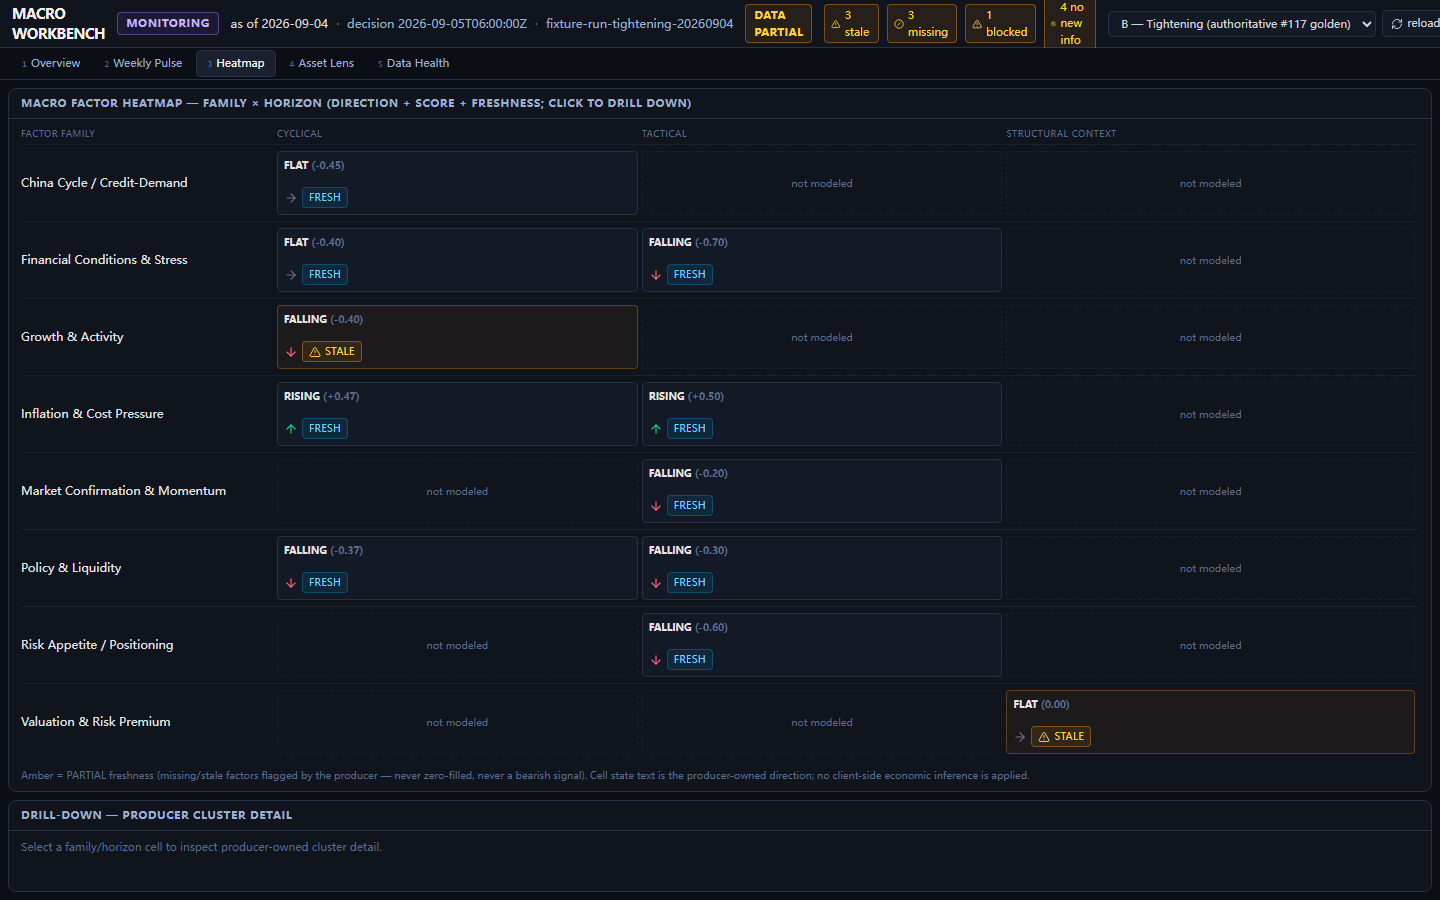
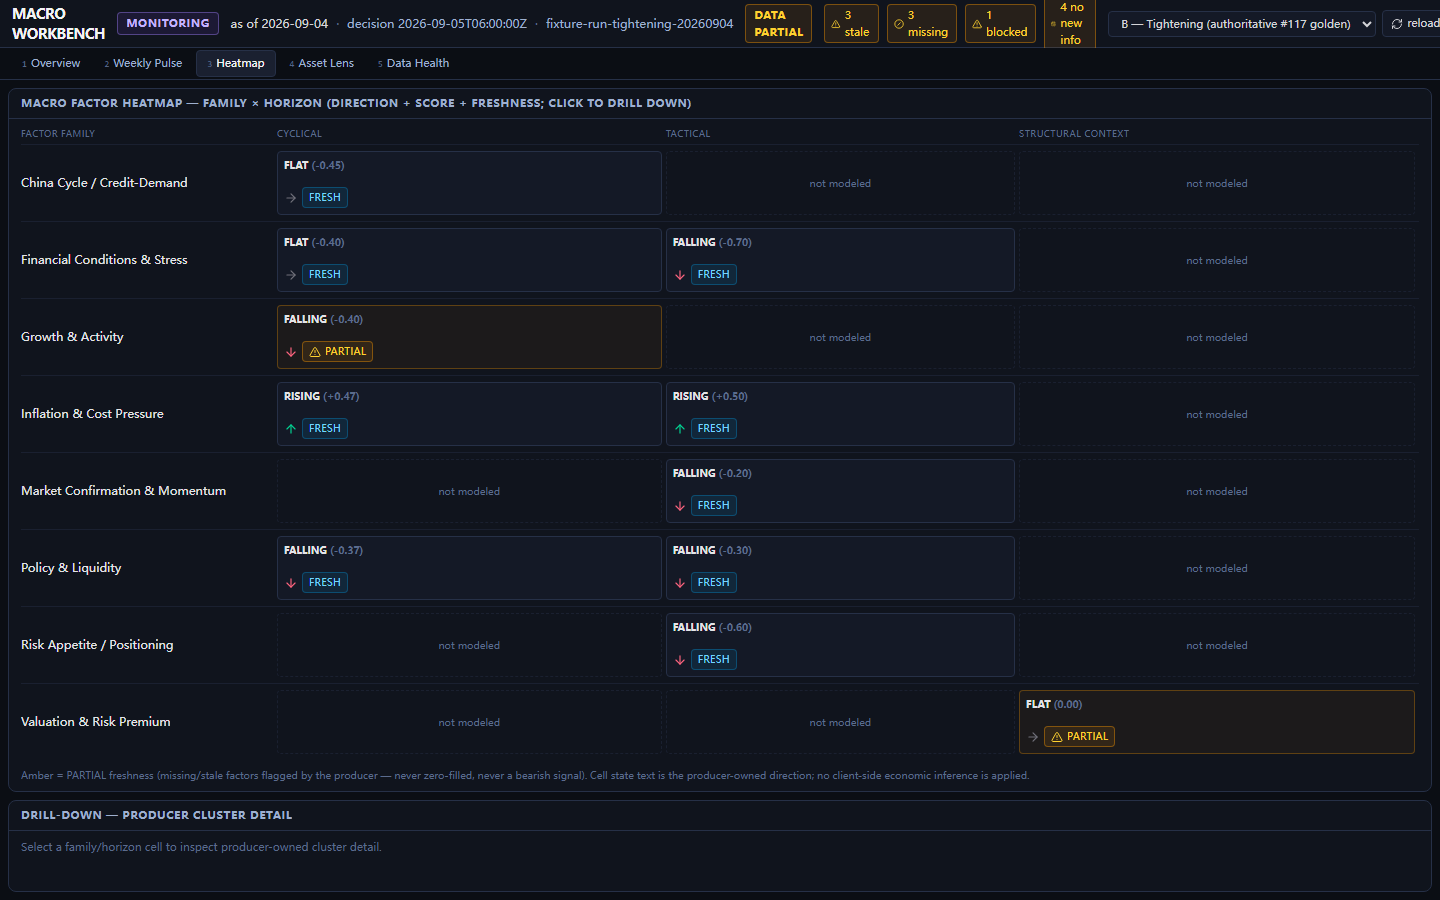
fix(#116): R3 — preserve producer PARTIAL as a first-class display state
WEB-CONTROL review 5654468573: adapt.js relabelled producer PARTIAL as STALE,
presenting a coverage/data-health state as temporal staleness.

- FRESHNESS_MAP / DATA_HEALTH_MAP: PARTIAL -> PARTIAL (amber warning visual
  treatment retained; badge text / data-status is PARTIAL, never STALE)
- FreshnessChip: add PARTIAL display state (amber, distinct data-status)
- Heatmap PARTIAL cell keeps amber treatment with visible PARTIAL chip
- regressions: full vocabulary separation (PARTIAL != STALE, NO_NEW_INFORMATION
  != STALE, MISSING != ZERO/FRESH); tightening golden GROWTH_ACTIVITY@CYCLICAL
  stays PARTIAL while CN_MFG_PMI OVERDUE event stays STALE; visual-semantics
  test asserts PARTIAL chip text/data-status
- R2 behavior preserved: byte-identical goldens/manifest, DashboardSnapshotV0
  identity, UNKNOWN confirmation, no DXY proxy, no economic math, five-page
  golden regression, 1440x900 zero-scroll

tests 33/33 vitest PASS; vite build PASS; screenshots refreshed; scrollHeight==900

diff --git a/frontend/tests/fixtures.test.js b/frontend/tests/fixtures.test.js
@@ -2,7 +2,7 @@ import { createHash } from 'node:crypto'
 import { describe, expect, it } from 'vitest'
 import { GOLDEN_MANIFEST, SCENARIOS, loadRawSnapshot, loadSnapshot } from '../src/snapshot/fixtures/index.js'
 import { validateSnapshot } from '../src/snapshot/schema.js'
-import { mapConfirmation } from '../src/snapshot/adapt.js'
+import { mapConfirmation, mapFreshness } from '../src/snapshot/adapt.js'
 
 function sha256(text) {
   return createHash('sha256').update(text, 'utf8').digest('hex')
@@ -105,10 +105,39 @@ describe('presentation adapter (adapt.js)', () => {
 
   it('adapts freshness and data-health vocabulary to display states', () => {
     const tightening = loadSnapshot('tightening')
-    // GOLD has data_health PARTIAL in the producer payload → amber STALE display state
+    // GOLD has data_health PARTIAL in the producer payload → amber PARTIAL display state
     const gold = tightening.asset_views.find((v) => v.asset === 'GOLD')
     expect(gold.data_health_status).toBe('PARTIAL')
-    expect(gold.data_health).toBe('STALE')
+    expect(gold.data_health).toBe('PARTIAL')
+    // benign has no PARTIAL assets — freshness stays OK → FRESH
+    const benign = loadSnapshot('benign')
+    for (const v of benign.asset_views) {
+      expect(v.data_health_status).toBe('OK')
+      expect(v.data_health).toBe('FRESH')
+    }
+  })
+
+  it('keeps PARTIAL distinct from STALE (R3: PARTIAL != STALE)', () => {
+    // full vocabulary separation in both maps
+    expect(mapFreshness('OK')).toBe('FRESH')
+    expect(mapFreshness('PARTIAL')).toBe('PARTIAL')
+    expect(mapFreshness('STALE')).toBe('STALE')
+    expect(mapFreshness('NO_NEW_INFORMATION')).toBe('NO_NEW_INFORMATION')
+    expect(mapFreshness('MISSING')).toBe('MISSING')
+    expect(mapFreshness('BLOCKED')).toBe('BLOCKED')
+    expect(mapFreshness('PARTIAL')).not.toBe(mapFreshness('STALE'))
+    expect(mapFreshness('NO_NEW_INFORMATION')).not.toBe(mapFreshness('STALE'))
+    expect(mapFreshness('MISSING')).not.toBe('FRESH')
+
+    // tightening golden: GROWTH_ACTIVITY@CYCLICAL cluster is producer-PARTIAL and
+    // must surface as PARTIAL, while CN_MFG_PMI overdue event is genuinely STALE
+    const tightening = loadSnapshot('tightening')
+    const partialCluster = tightening.clusters.find((c) => c.id === 'GROWTH_ACTIVITY@CYCLICAL')
+    expect(partialCluster.freshness_status).toBe('PARTIAL')
+    expect(partialCluster.freshness).toBe('PARTIAL')
+    const overdueEvent = tightening.weekly_change.events.find((e) => e.event_type === 'OVERDUE')
+    expect(overdueEvent.status).toBe('STALE')
+    expect(overdueEvent.status).not.toBe('PARTIAL')
   })
 
   it('loader returns deterministic fresh adaptations', () => {

diff --git a/frontend/src/components/primitives.jsx b/frontend/src/components/primitives.jsx
@@ -38,6 +38,7 @@ const FRESHNESS_CLASSES = {
   FRESH: 'bg-sky-500/10 text-sky-300 border-sky-500/30',
   UPDATED: 'bg-sky-500/10 text-sky-300 border-sky-500/30',
   NO_NEW_INFORMATION: 'bg-zinc-500/10 text-zinc-400 border-zinc-600/40 border-dashed',
+  PARTIAL: 'bg-amber-500/10 text-amber-300 border-amber-500/40',
   STALE: 'bg-amber-500/10 text-amber-300 border-amber-500/40',
   MISSING: 'bg-amber-500/5 text-amber-400/90 border-amber-500/30 border-dashed',
   BLOCKED: 'bg-amber-500/10 text-amber-300 border-amber-500/50',
@@ -47,6 +48,7 @@ const FRESHNESS_ICONS = {
   FRESH: null,
   UPDATED: null,
   NO_NEW_INFORMATION: CalendarClock,
+  PARTIAL: AlertTriangle,
   STALE: AlertTriangle,
   MISSING: CircleSlash,
   BLOCKED: Lock,
@@ -56,6 +58,7 @@ const FRESHNESS_LABELS = {
   FRESH: 'FRESH',
   UPDATED: 'UPDATED',
   NO_NEW_INFORMATION: 'NO NEW INFO',
+  PARTIAL: 'PARTIAL',
   STALE: 'STALE',
   MISSING: 'MISSING',
   BLOCKED: 'BLOCKED',

diff --git a/frontend/tests/visualSemantics.test.jsx b/frontend/tests/visualSemantics.test.jsx
@@ -35,6 +35,16 @@ describe('data-health visual semantics', () => {
     expect(el.className).not.toContain('emerald')
   })
 
+  it('renders producer PARTIAL as its own amber state — visible label stays PARTIAL, never STALE', () => {
+    render(<FreshnessChip status="PARTIAL" />)
+    const el = screen.getByTestId('freshness-chip')
+    expect(el.getAttribute('data-status')).toBe('PARTIAL')
+    expect(el).toHaveTextContent('PARTIAL')
+    expect(el).not.toHaveTextContent('STALE')
+    // same amber warning treatment as STALE, but a distinct data-status
+    expect(el.className).toContain('amber')
+  })
+
   it('low confidence is an amber warning, not a bearish signal', () => {
     render(<ConfidenceBadge confidence={0.35} />)
     const el = screen.getByTestId('confidence-badge')

diff --git a/frontend/src/snapshot/adapt.js b/frontend/src/snapshot/adapt.js
@@ -37,10 +37,12 @@ export function familyLabel(family) {
   return FAMILY_LABELS[family] ?? family
 }
 
-/* freshness_status → display data-state. Pure vocabulary mapping. */
+/* freshness_status → display data-state. Pure vocabulary mapping.
+ * PARTIAL is a producer-owned coverage state and stays PARTIAL — it must not
+ * collapse into STALE (WEB-CONTROL R3, #116 comment 5654468573). */
 const FRESHNESS_MAP = {
   OK: 'FRESH',
-  PARTIAL: 'STALE',
+  PARTIAL: 'PARTIAL',
   STALE: 'STALE',
   NO_NEW_INFORMATION: 'NO_NEW_INFORMATION',
   MISSING: 'MISSING',
@@ -53,7 +55,7 @@ export function mapFreshness(status) {
 
 const DATA_HEALTH_MAP = {
   OK: 'FRESH',
-  PARTIAL: 'STALE',
+  PARTIAL: 'PARTIAL',
   STALE: 'STALE',
   MISSING: 'MISSING',
   BLOCKED: 'BLOCKED',

diff --git a/frontend/src/pages/DataHealthPage.jsx b/frontend/src/pages/DataHealthPage.jsx
@@ -25,7 +25,7 @@ function FamilyStatusTable({ familyInformationStatus }) {
           <tr key={family} className="border-t border-ink-800">
             <td className="py-1 text-zinc-200">{family.replaceAll('_', ' ').toLowerCase()}</td>
             <td className="py-1">
-              <FreshnessChip status={status === 'NO_NEW_INFORMATION' ? 'NO_NEW_INFORMATION' : status === 'UPDATED' ? 'UPDATED' : 'STALE'} />
+              <FreshnessChip status={status === 'NO_NEW_INFORMATION' ? 'NO_NEW_INFORMATION' : status === 'UPDATED' ? 'UPDATED' : status === 'PARTIAL' ? 'PARTIAL' : 'STALE'} />
             </td>
           </tr>
         ))}

diff --git a/frontend/src/pages/HeatmapPage.jsx b/frontend/src/pages/HeatmapPage.jsx
@@ -7,7 +7,7 @@ const HORIZONS = ['CYCLICAL', 'TACTICAL', 'STRUCTURAL_CONTEXT']
  * Cell renders backend direction/score/freshness — no client-side inference.
  * freshness OK→FRESH, PARTIAL→amber, MISSING stays dashed-amber. */
 function HeatCell({ cluster, onClick }) {
-  const isPartial = cluster.freshness === 'STALE' || cluster.freshness === 'MISSING'
+  const isPartial = cluster.freshness === 'PARTIAL' || cluster.freshness === 'STALE' || cluster.freshness === 'MISSING'
   return (
     <button type="button"
       onClick={onClick}

diff --git a/frontend/src/snapshot/RECONCILIATION.md b/frontend/src/snapshot/RECONCILIATION.md
@@ -32,7 +32,7 @@
 | `data_health_summary.overall` | header `DATA <overall>` badge | producer emits **no overall confidence**; the UI does not fabricate one |
 | `macro_climate.direction/confidence/coverage` | climate pill 1 | state text = `regime.quadrant_label` (producer-owned classification) |
 | `climate_components[]` (`POLICY_LIQUIDITY`, `FINANCIAL_CONDITIONS`, `MARKET_CONFIRMATION`, `RISK_APPETITE`, `INVESTMENT_CLIMATE`) | climate pills 2–4 | rendered directly; **no client-side sign/economic inference**; regression proves benign `POLICY_LIQUIDITY=NEUTRAL/FLAT` while growth is EXPANDING/RISING |
-| `clusters[]` (`cluster_id/family/horizon/score/weekly_delta/direction/confidence/coverage/top_positive/top_negative/missing_factors/stale_factors/freshness_status`) | heatmap (family × horizon), Weekly Pulse delta chart, drill-down | `freshness_status` vocabulary map: `OK→FRESH`, `PARTIAL→STALE` (amber), others pass through |
+| `clusters[]` (`cluster_id/family/horizon/score/weekly_delta/direction/confidence/coverage/top_positive/top_negative/missing_factors/stale_factors/freshness_status`) | heatmap (family × horizon), Weekly Pulse delta chart, drill-down | `freshness_status` vocabulary map: `OK→FRESH`, `PARTIAL→PARTIAL` (amber warning, kept distinct from STALE per R3), `STALE→STALE`, others pass through |
 | `weekly_change.information_set_delta` `{status, events[], stale_factors[]}` | Overview "what changed" + Weekly Pulse releases | `event_type NEW_OBSERVATION/REVISION → UPDATED` (blue), `OVERDUE → STALE` (amber); `surprise` metadata displayed verbatim incl. method |
 | `weekly_change.macro_state_delta.entries` | Weekly Pulse | previous→current, delta, producer `cause` tag rendered verbatim (`NO_NEW_INFORMATION` entries have delta 0 — no synthetic drift) |
 | `weekly_change.market_condition_delta.moves` | Overview + Weekly Pulse | `unit PCT→%`, `BPS→bps`, `POINT→pt`; sign coloring is market-direction only |
